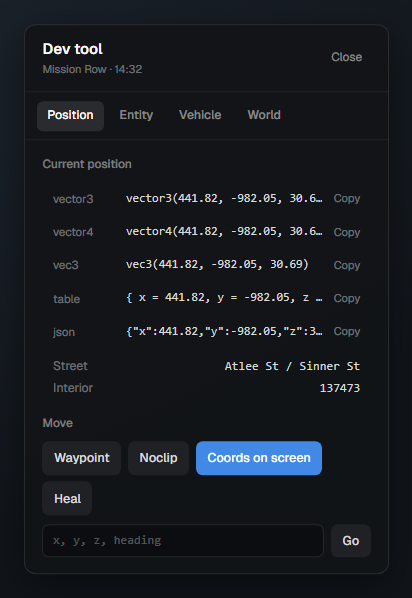
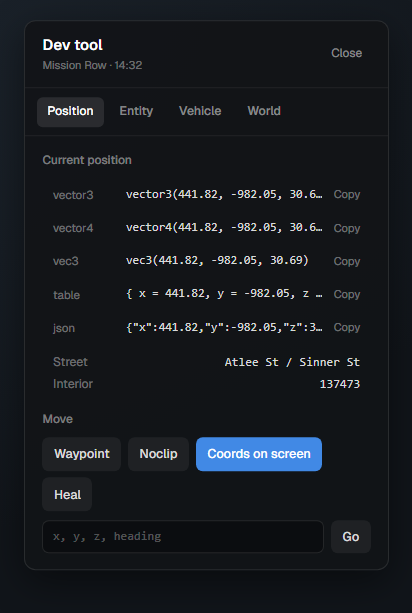
Dev tool screenshots in the 1.5.0 changelog and README, docs link to kojascripts.com

diff --git a/CHANGELOG.md b/CHANGELOG.md
@@ -2,6 +2,8 @@
 
 ## [1.5.0] - 2026-10-30
 
+<img src="https://raw.githubusercontent.com/Koja-Scripts/koja-lib/main/.github/assets/devtool.png" alt="Dev tool" width="24%"> <img src="https://raw.githubusercontent.com/Koja-Scripts/koja-lib/main/.github/assets/devtool-vehicle.png" alt="Dev tool" width="24%"> <img src="https://raw.githubusercontent.com/Koja-Scripts/koja-lib/main/.github/assets/devtool-entity.png" alt="Dev tool" width="24%"> <img src="https://raw.githubusercontent.com/Koja-Scripts/koja-lib/main/.github/assets/devtool-world.png" alt="Dev tool" width="24%">
+
 ### Added
 - **Dev tool:** `/kojadev` for admins, configured in `Config.DevTool`.
   - Copy coordinates as vector3, vector4, vec3, a Lua table or JSON.
